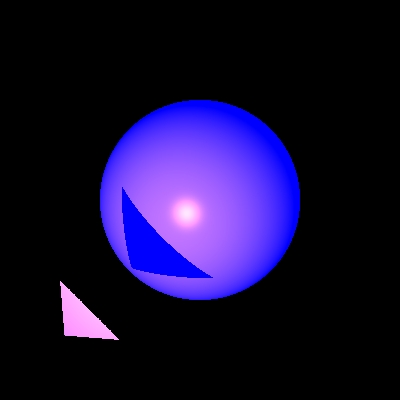
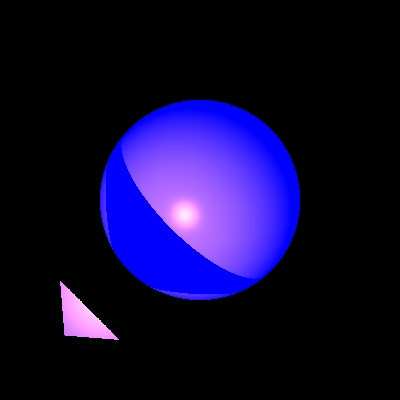
done shadow tests

Changed region(s): [[0.24, 0.36, 0.66, 0.75], [0.15, 0.81, 0.21, 0.84]]

diff --git a/src/unittests/ShadowTests.java b/src/unittests/ShadowTests.java
@@ -81,7 +81,7 @@ public class ShadowTests {
 		scene.addGeometries(new Sphere(new Color(java.awt.Color.BLUE), new Material(0.5, 0.5, 30), //
 				 new Point3D(0, 0, 200),60), //
 				new Triangle(new Color(java.awt.Color.BLUE), new Material(0.5, 0.5, 30), //
-						new Point3D(-70, 40, 0), new Point3D(-40, 70, 0), new Point3D(-68, 68, 4)));
+						new Point3D(-50, 20, 0), new Point3D(-20, 50, 0), new Point3D(-48, 48, 4)));
 
 		scene.addLights(new spotLight(new Color(400, 240, 0), //
 				new Point3D(-100, 100, -200), new Vector(1, -1, 3), 1, 1E-5, 1.5E-7));
@@ -110,7 +110,7 @@ public class ShadowTests {
 						new Point3D(-70, 40, 0), new Point3D(-40, 70, 0), new Point3D(-68, 68, 4)));
 
 		scene.addLights(new spotLight(new Color(400, 240, 0), //
-				new Point3D(-100, 100, -200), new Vector(1, -1, 3), 1, 1E-5, 1.5E-7));
+				new Point3D(-100, 100, -200).add(new Vector(1,-1,3).scale(10)), new Vector(1, -1, 3), 1, 1E-5, 1.5E-7));
 
 		ImageWriter imageWriter = new ImageWriter("sphereTriangleSpot1", 200, 200, 400, 400);
 		Render render = new Render(imageWriter, scene);
@@ -136,7 +136,7 @@ public class ShadowTests {
 						new Point3D(-70, 40, 0), new Point3D(-40, 70, 0), new Point3D(-68, 68, 4)));
 
 		scene.addLights(new spotLight(new Color(400, 240, 0), //
-				new Point3D(-100, 100, -200), new Vector(1, -1, 3), 1, 1E-5, 1.5E-7));
+				new Point3D(-100, 100, -200).add(new Vector(1,-1,5).scale(25)), new Vector(1, -1, 3), 1, 1E-5, 1.5E-7));
 
 		ImageWriter imageWriter = new ImageWriter("sphereTriangleSpot2", 200, 200, 400, 400);
 		Render render = new Render(imageWriter, scene);
